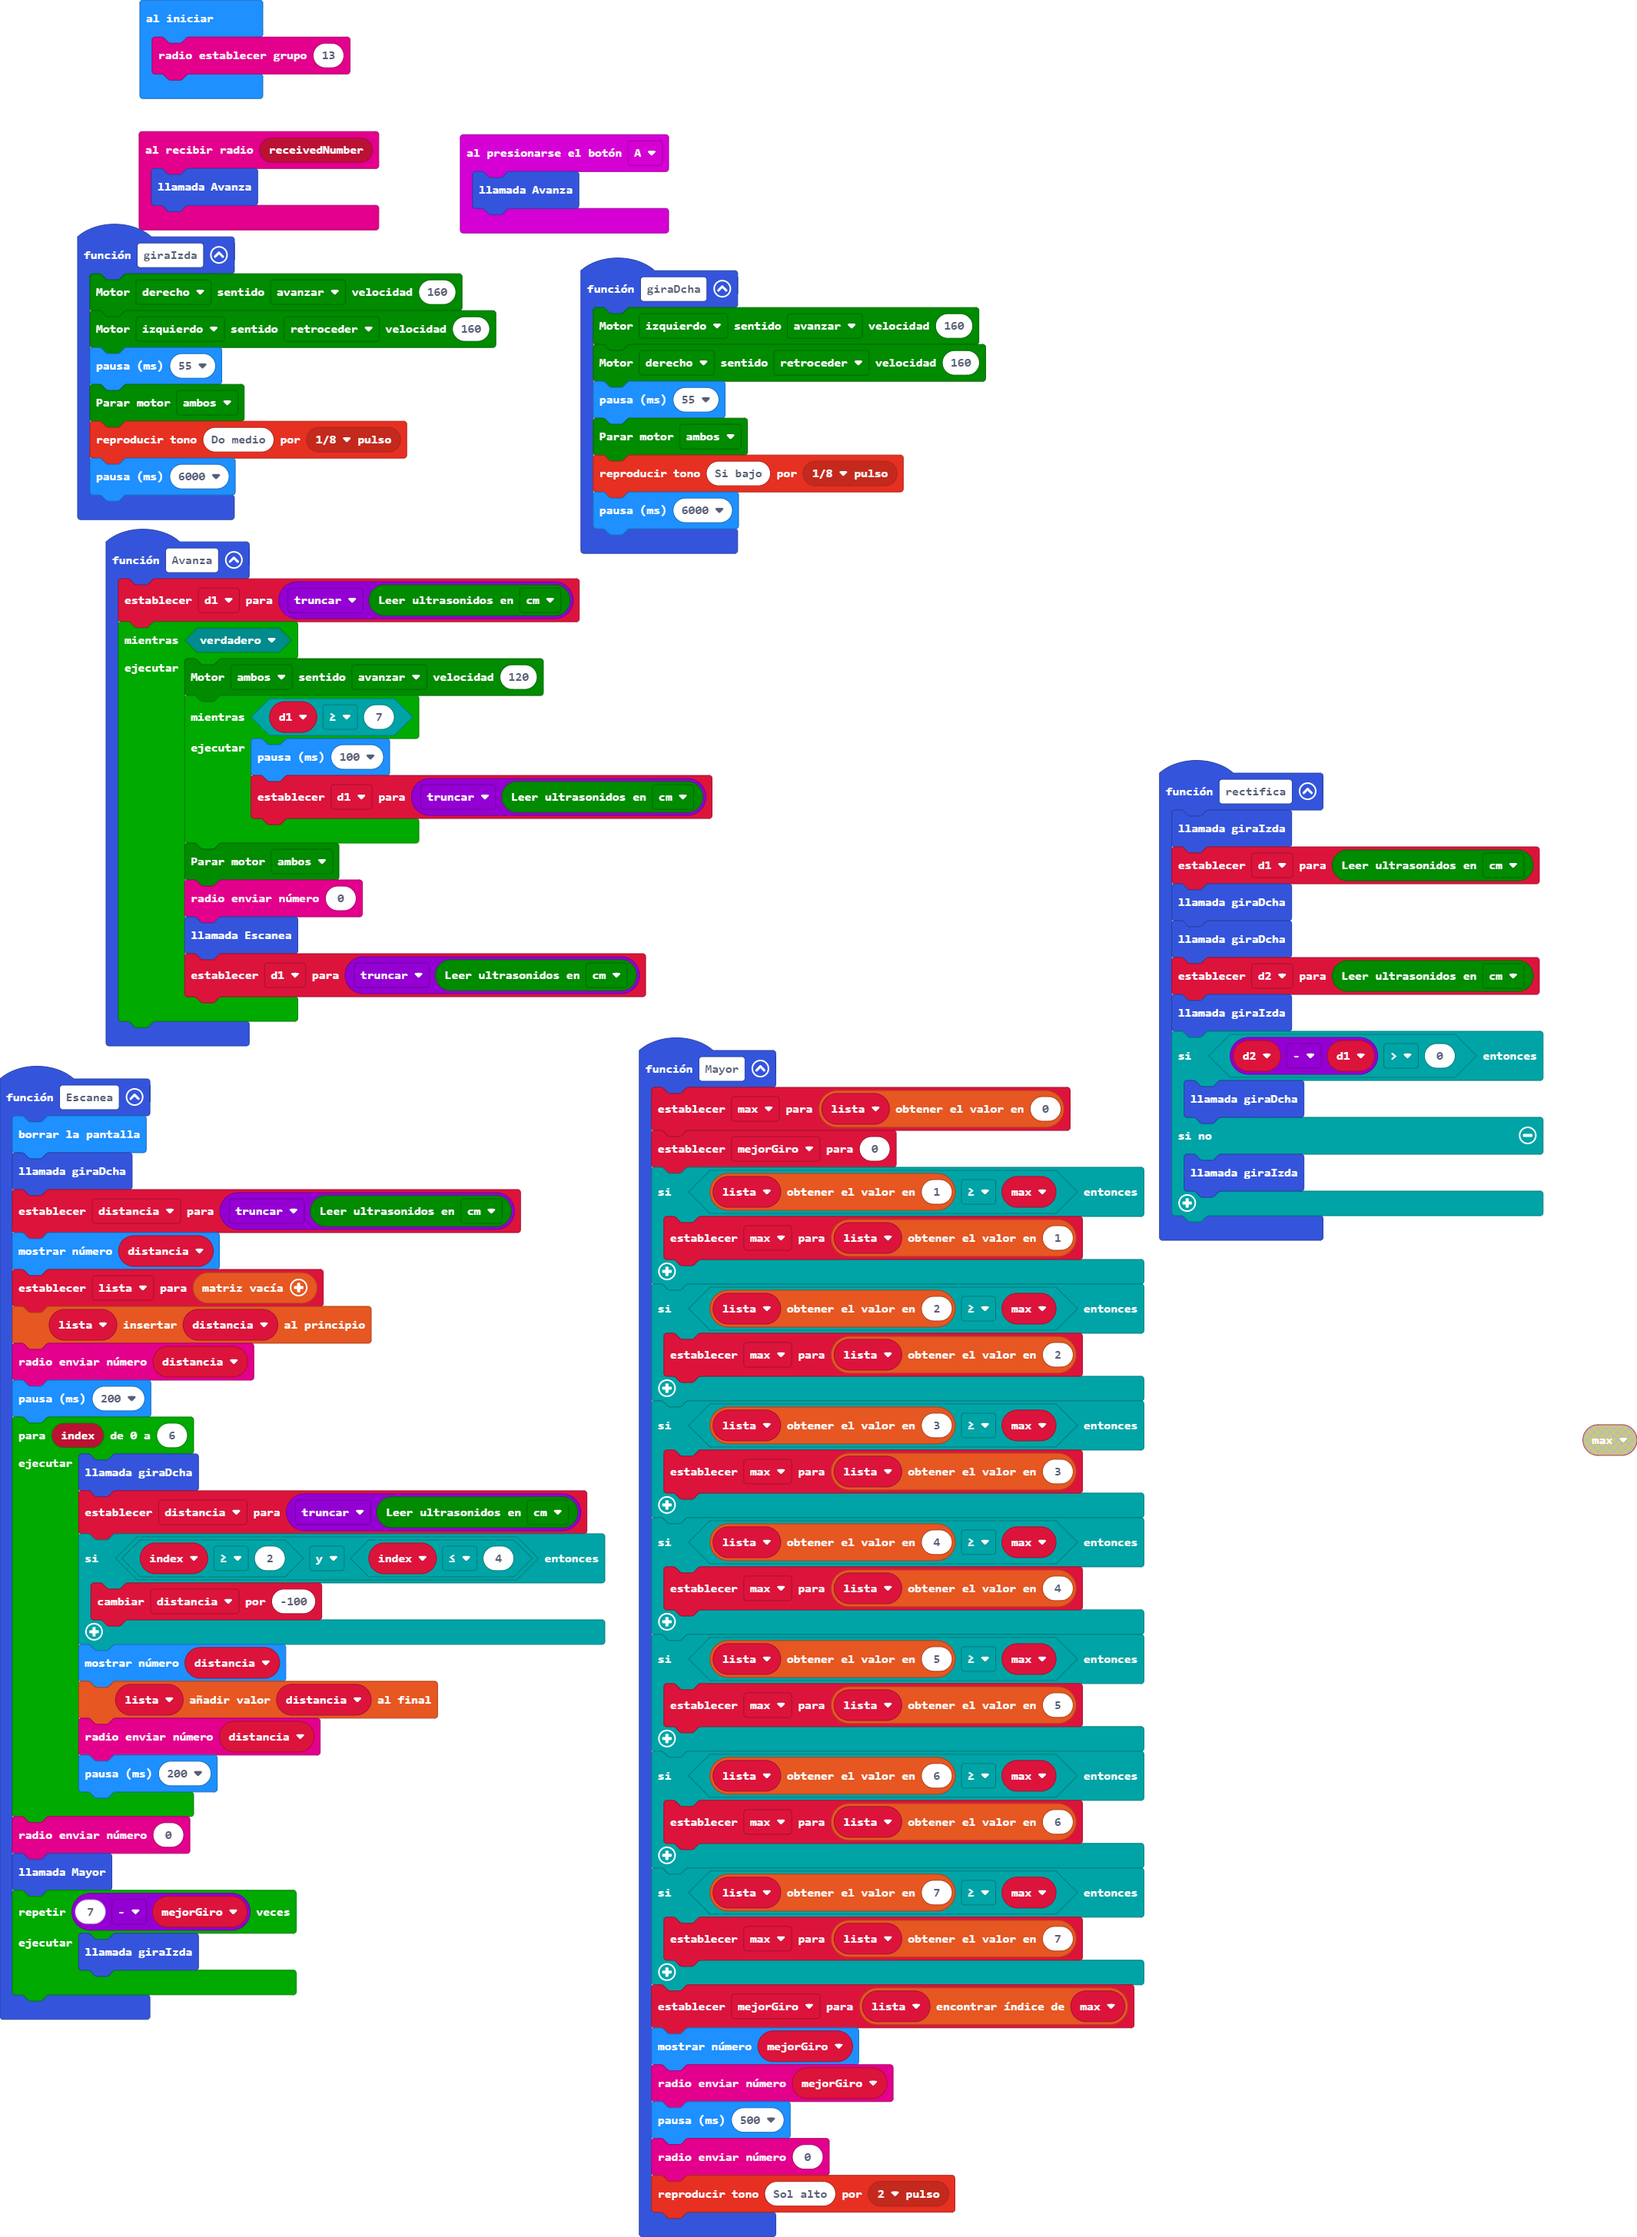
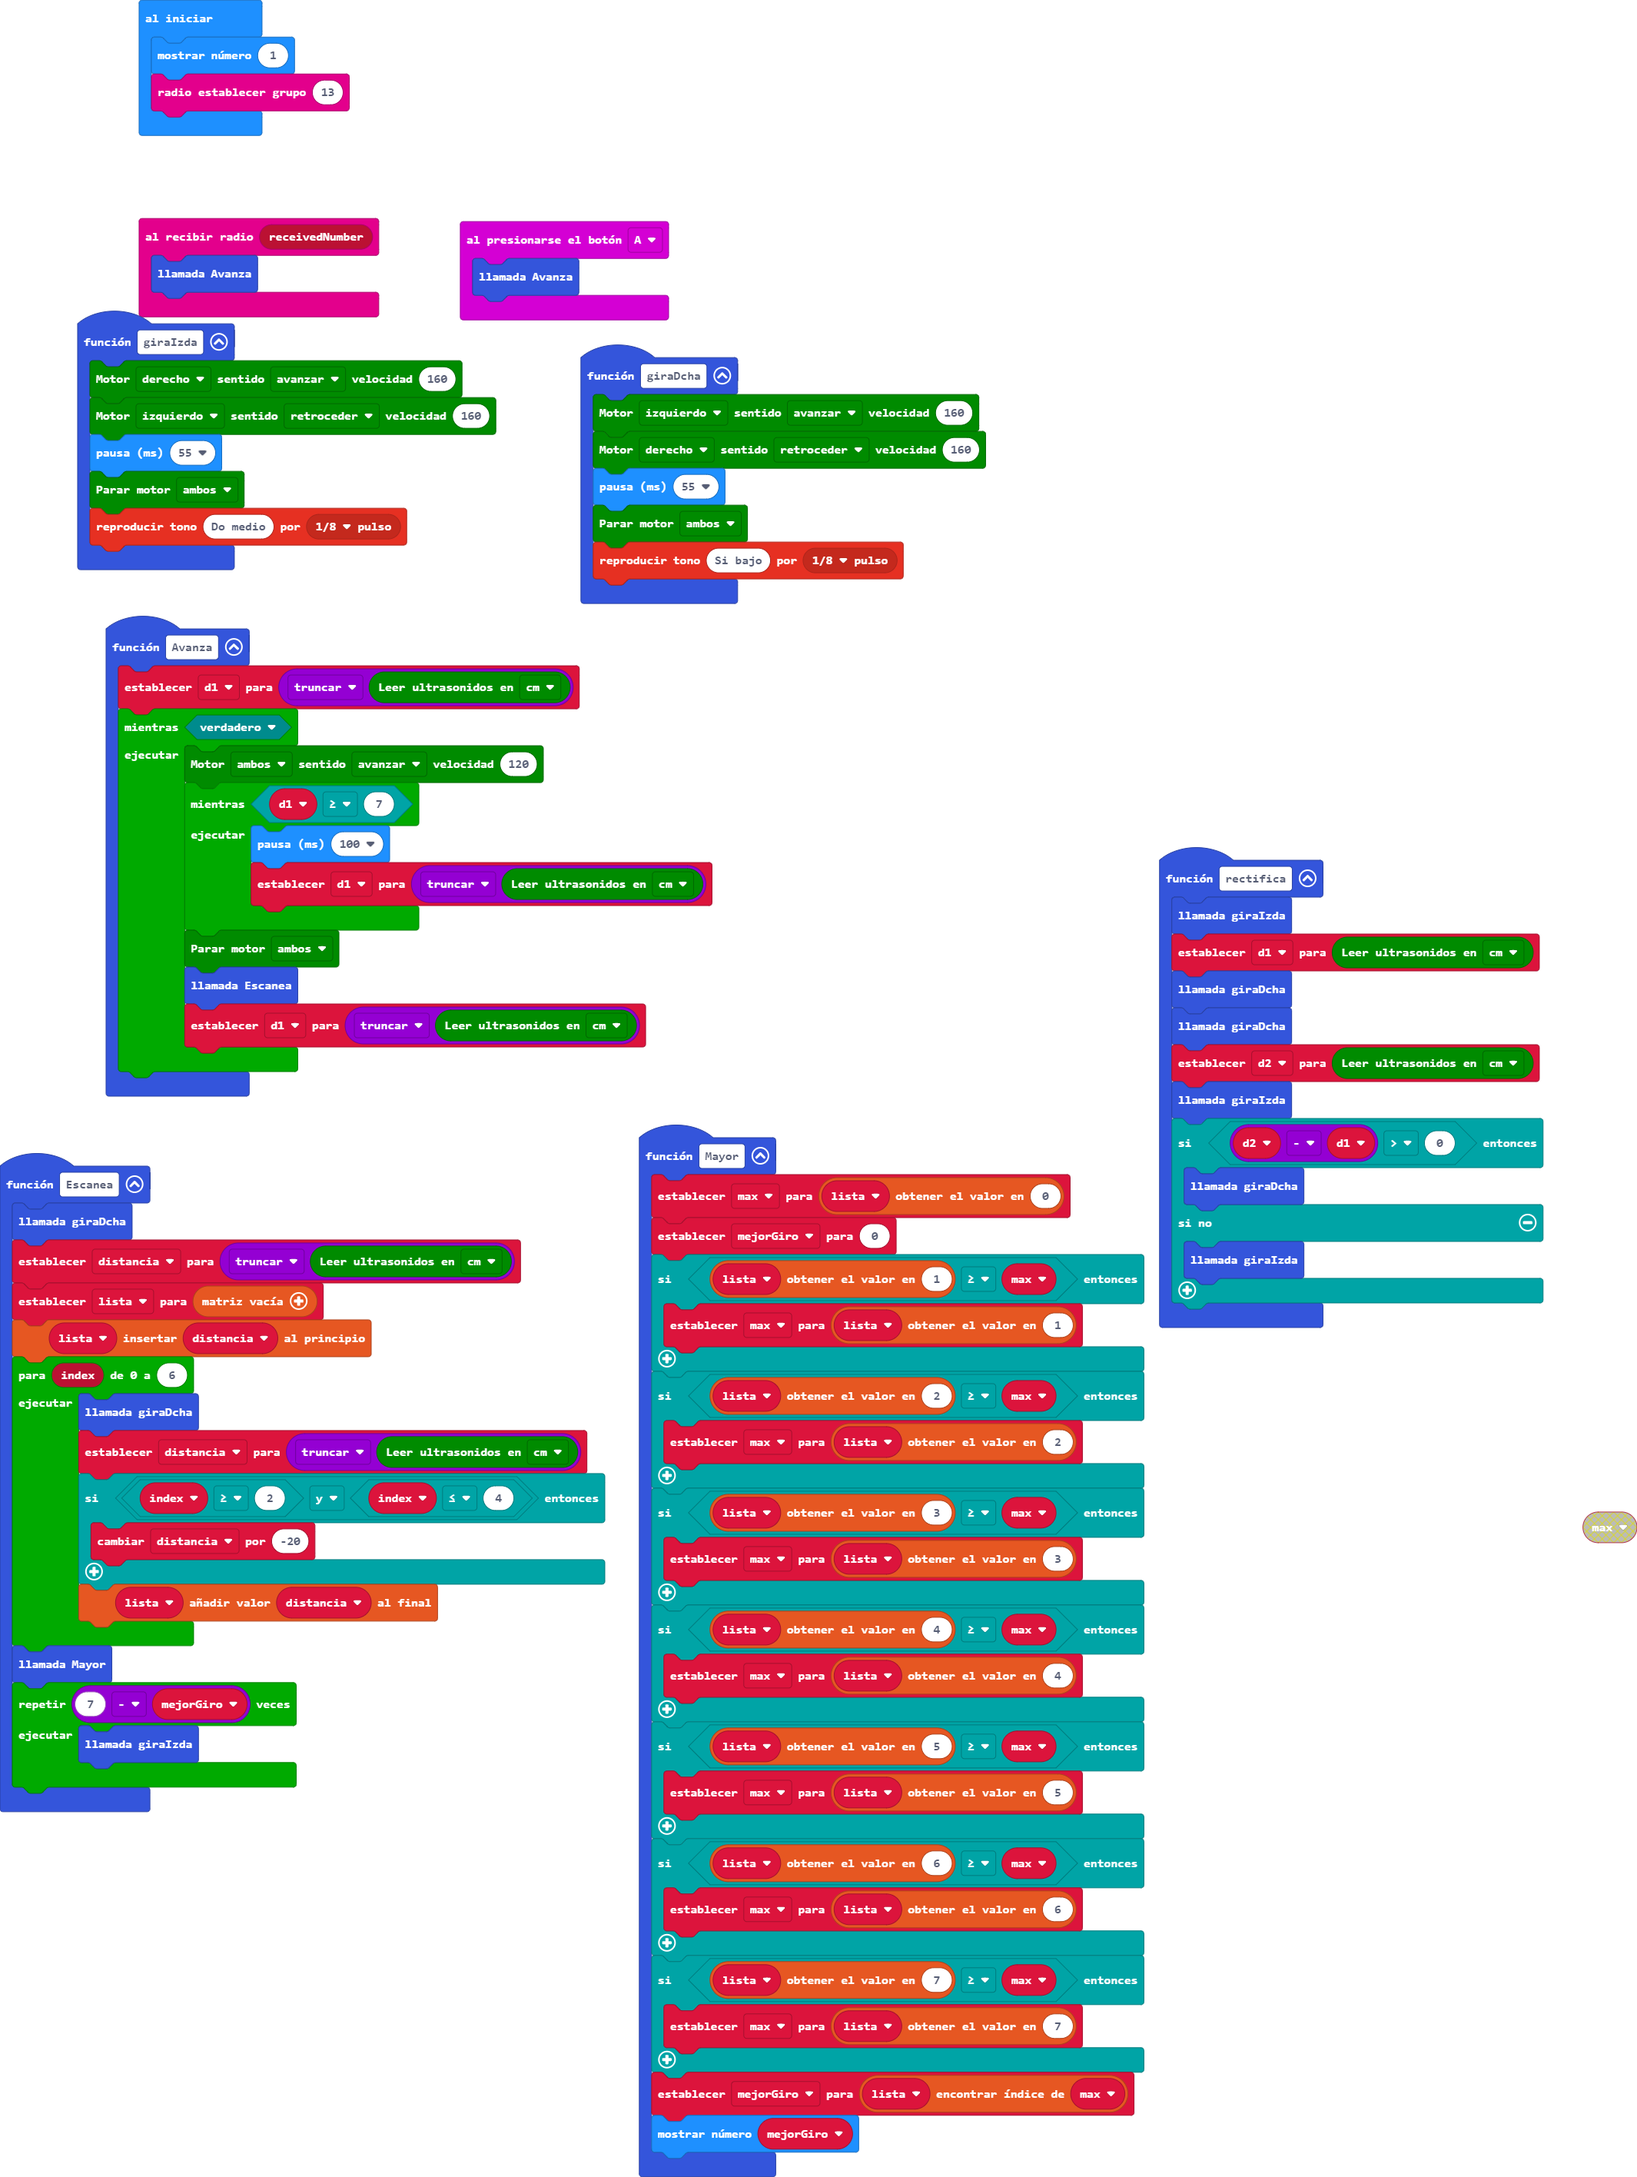
Actualizar main.blocks, main.ts

diff --git a/main.ts b/main.ts
@@ -27,10 +27,6 @@ function Mayor () {
     }
     mejorGiro = lista.indexOf(max)
     basic.showNumber(mejorGiro)
-    radio.sendNumber(mejorGiro)
-    basic.pause(500)
-    radio.sendNumber(0)
-    music.playTone(784, music.beat(BeatFraction.Double))
 }
 function Avanza () {
     d1 = Math.trunc(maqueen.Ultrasonic(PingUnit.Centimeters))
@@ -41,7 +37,6 @@ function Avanza () {
             d1 = Math.trunc(maqueen.Ultrasonic(PingUnit.Centimeters))
         }
         maqueen.motorStop(maqueen.Motors.All)
-        radio.sendNumber(0)
         Escanea()
         d1 = Math.trunc(maqueen.Ultrasonic(PingUnit.Centimeters))
     }
@@ -50,26 +45,18 @@ input.onButtonPressed(Button.A, function () {
     Avanza()
 })
 function Escanea () {
-    basic.clearScreen()
     giraDcha()
     distancia = Math.trunc(maqueen.Ultrasonic(PingUnit.Centimeters))
-    basic.showNumber(distancia)
     lista = []
     lista.unshift(distancia)
-    radio.sendNumber(distancia)
-    basic.pause(200)
     for (let index = 0; index <= 6; index++) {
         giraDcha()
         distancia = Math.trunc(maqueen.Ultrasonic(PingUnit.Centimeters))
         if (index >= 2 && index <= 4) {
-            distancia += -100
+            distancia += -20
         }
-        basic.showNumber(distancia)
         lista.push(distancia)
-        radio.sendNumber(distancia)
-        basic.pause(200)
     }
-    radio.sendNumber(0)
     Mayor()
     for (let index = 0; index < 7 - mejorGiro; index++) {
         giraIzda()
@@ -81,7 +68,6 @@ function giraIzda () {
     basic.pause(55)
     maqueen.motorStop(maqueen.Motors.All)
     music.playTone(262, music.beat(BeatFraction.Eighth))
-    basic.pause(6000)
 }
 function giraDcha () {
     maqueen.motorRun(maqueen.Motors.M1, maqueen.Dir.CW, 160)
@@ -89,7 +75,6 @@ function giraDcha () {
     basic.pause(55)
     maqueen.motorStop(maqueen.Motors.All)
     music.playTone(247, music.beat(BeatFraction.Eighth))
-    basic.pause(6000)
 }
 function rectifica () {
     giraIzda()
@@ -110,4 +95,5 @@ let d1 = 0
 let mejorGiro = 0
 let lista: number[] = []
 let max = 0
+basic.showNumber(1)
 radio.setGroup(13)
